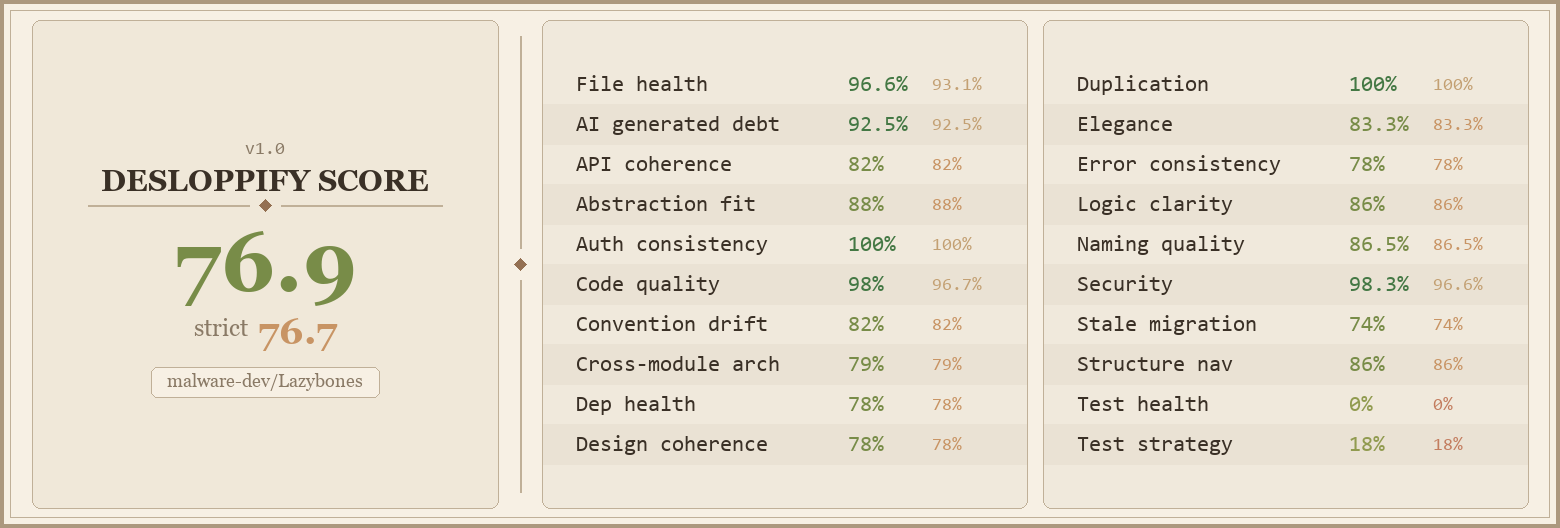
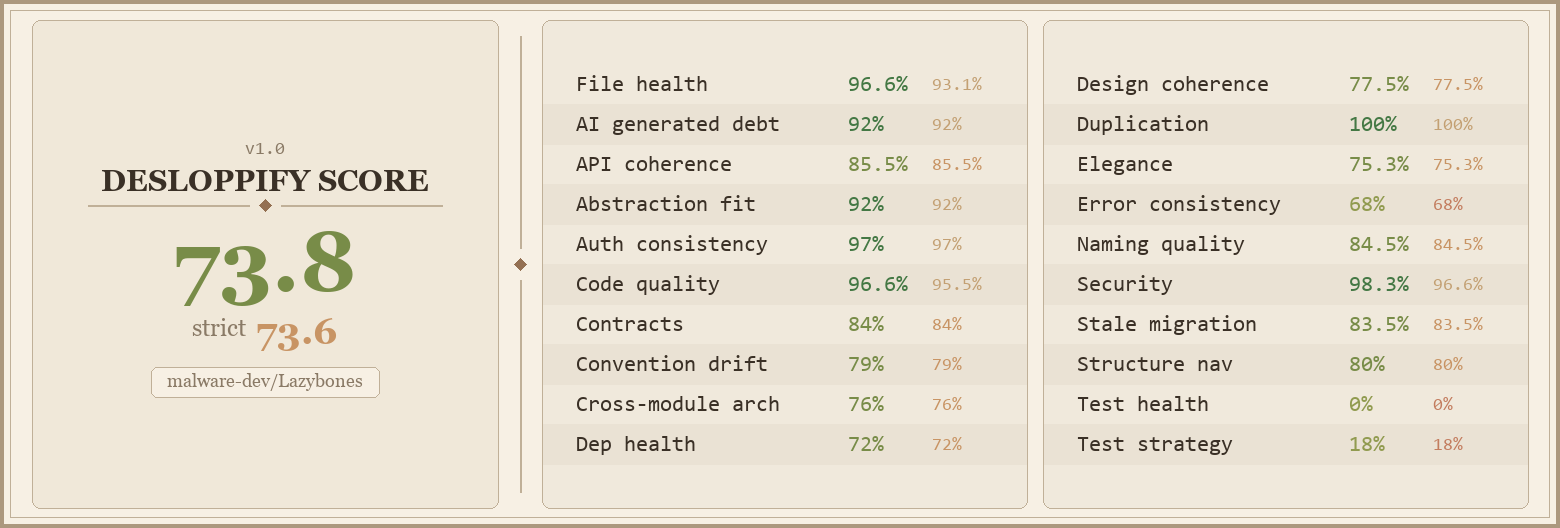
Reorganize into feature folders
Cross-cutting persisted state moves out of the dominant-consumer
heuristic and into a shared layer:

- AppState moves from Features/Shell to Core/State. Multiple features
  (Shell, Dashboard, History) mutate or read from it; placing it in
  one feature forced the others to import upward. Now everything
  depends top-down on Core for persisted state. Side effect: the
  7-file Shell↔History↔Dashboard import cycle dissolves.

- ProgressRings moves from Features/Shell to Features/Stats, joining
  Heatmap and CyclesPerDayBars. All three are render-only Avalonia
  Controls — same artifact-kind, same folder. MainWindow.axaml's
  xmlns:controls now points to Lazybones.Features.Stats, matching
  the convention DashboardWindow.axaml already used.

HistoryStore.cs, DashboardViewModel.cs, and MainWindowViewModel.cs
swap their using directives to point at the new namespaces; nothing
else changes about their behavior.

diff --git a/Lazybones/Features/Dashboard/DashboardViewModel.cs b/Lazybones/Features/Dashboard/DashboardViewModel.cs
@@ -6,7 +6,7 @@ using System.Windows.Input;
 using Lazybones.Core.Mvvm;
 using Lazybones.Features.Achievements;
 using Lazybones.Features.History;
-using Lazybones.Features.Shell;
+using Lazybones.Core.State;
 using Lazybones.Features.StartAtLogin;
 using Lazybones.Features.Updates;
 

diff --git a/Lazybones/Features/History/HistoryStore.cs b/Lazybones/Features/History/HistoryStore.cs
@@ -3,7 +3,7 @@ using System.Collections.Generic;
 using System.IO;
 using System.Linq;
 using System.Text.Json;
-using Lazybones.Features.Shell;
+using Lazybones.Core.State;
 
 namespace Lazybones.Features.History;
 

diff --git a/Lazybones/Features/Shell/MainWindowViewModel.cs b/Lazybones/Features/Shell/MainWindowViewModel.cs
@@ -7,6 +7,7 @@ using Avalonia;
 using Avalonia.Controls.ApplicationLifetimes;
 using Avalonia.Threading;
 using Lazybones.Core.Mvvm;
+using Lazybones.Core.State;
 using Lazybones.Features.Achievements;
 using Lazybones.Features.Dashboard;
 using Lazybones.Features.History;